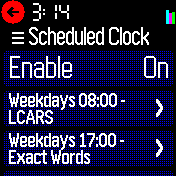
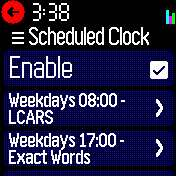
schedclock: aim for translatable texts; fix enabled toggle

diff --git a/apps/schedclock/settings.js b/apps/schedclock/settings.js
@@ -54,11 +54,10 @@
     const settings = loadSettings();
     const clockFaces = getClockFaces();
     const menu = {
-      "": { "title": /*LANG*/"Scheduled Clock" },
+      "": { "title": /*LANG*/"Schedule Clock" },
       "< Back": () => back(),
-      /*LANG*/"Enable": {
-        value: !!settings.enabled,
-        format: v => v ? /*LANG*/"On" : /*LANG*/"Off",
+      /*LANG*/"Enabled": {
+        value: settings.enabled,
         onchange: v => {
           settings.enabled = v;
           saveSettings(settings);

diff --git a/apps/schedclock/README.md b/apps/schedclock/README.md
@@ -9,7 +9,7 @@ For example: a fun clock face for weekends and after work; a detailed clock face
 ## Usage
 
 * Open the `Schedule Clock` app or find it in the `Settings` > `Apps` menu.
-* Set `Enable` to `on`
+* Set `Enabled` to checked
 * Select `Add New` to add a new scheduled face change
 * Select the `Day`, `Hour`, `Minute`, and what `Clock` to change to
 * Select `Save` to save the new (or changed) schedule
@@ -21,7 +21,7 @@ An entry in `Scheduler` will be created for each scheduled clock change.
 If the clockface you selected has been uninstalled, the schedule will still exist but won't do anything.
 
 ## To Uninstall
-Before uninstalling this app, clean up any scheduled alarms by setting the `Enable` toggle to `off`.
+Before uninstalling this app, clean up any scheduled alarms by setting the `Enabled` toggle to unchecked.
 
 If you skip this step, orphaned alarms may cause error logs but won't affect functionality.
 
